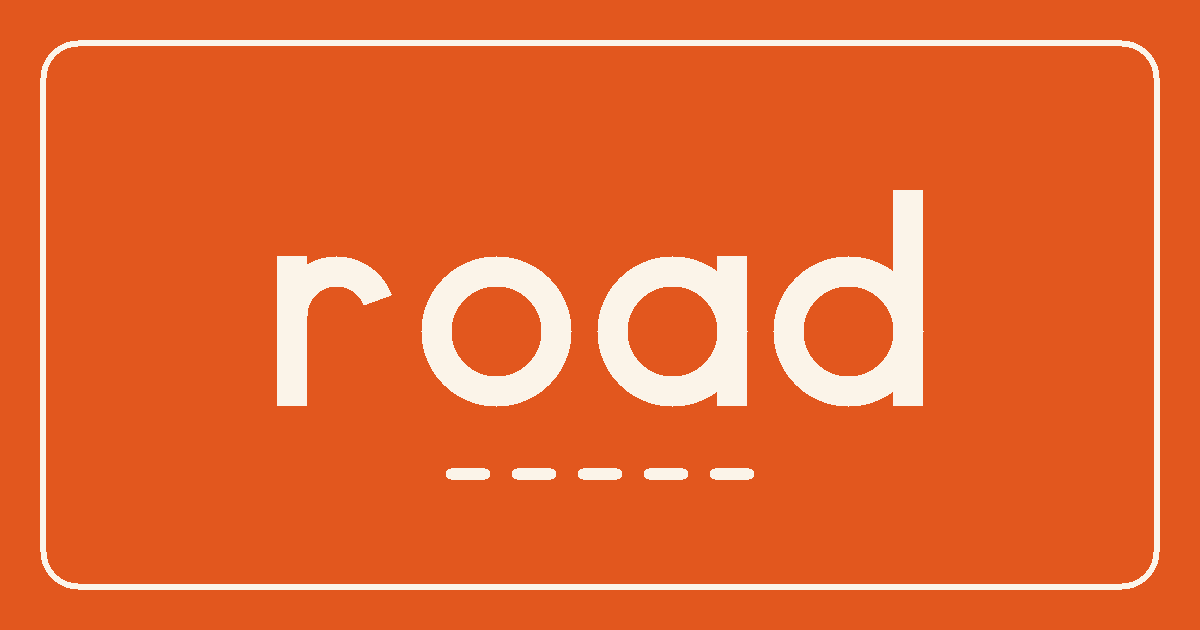
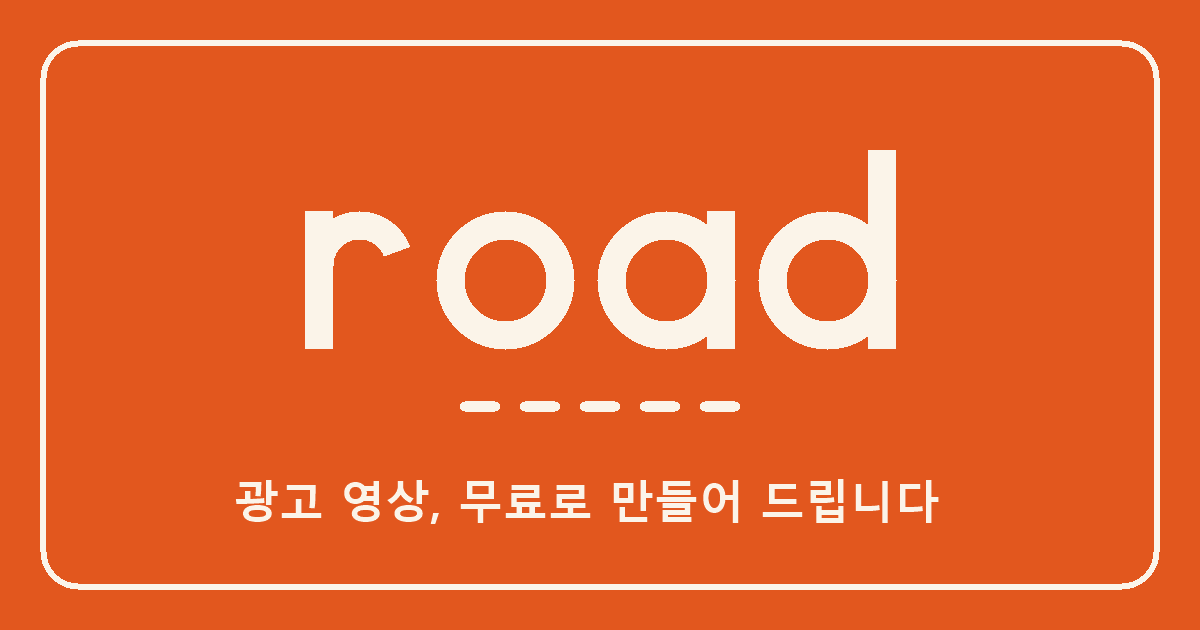
문구를 '영상에 쓴 것'과 '게시글에 쓸 것'으로 나누고, 미리보기 그림에 한 줄 넣음
[문구를 둘로 나눔]
완성 영상을 드리므로 문구 하나는 이미 영상에 쓰인 상태임.
그런데 "3안 중에 고르세요"라고 하면 사장님이 뭘 해야 하는지 헷갈림.
- videoCopy : 영상에 이미 들어간 한 줄 (보고용)
- postCopy  : 올릴 때 밑에 붙일 글 3안 (골라 쓰는 것, 줄마다 복사 단추)
- 클로드 지시문도 headlines -> videoCopy + postCopy 로 바꿈
- 카톡에 보낼 글에도 [영상에 쓴 문구] / [게시글에 쓸 문구] 로 나뉘어 들어감

[결과 코드가 안 열리던 문제를 고침]
빈 항목을 채우는 부분이 결과를 '새로 만들 때'에만 있고
'예전 코드를 열 때'에는 없었음. 그대로 뒀으면 이미 사장님들께 보낸
결과 코드를 여는 순간 화면이 멈췄음.
- fillResult() 로 떼어내 parseResult 와 unpack 양쪽에서 부르게 함
- _화면시늉.js 가 이 문제를 잡아냄. 옛 결과/새 결과 둘 다 여는 검사를 남겨 둠

[카톡 미리보기 그림]
"광고 영상, 무료로 만들어 드립니다" 한 줄을 그림 안에 넣음.
한글은 막대로 그릴 수 없어 윈도우 글꼴을 빌려 씀 (_미리보기그림.ps1 새로 만듦).
road 글자를 조금 올려 자리를 비움. 만드는 순서는 node -> powershell.

[어두운 화면]
지금처럼 자동으로 바뀌게 그대로 둠 (사용자 확인)

검사: 글자 52개 · 화면 실행 46개 전부 통과

Changed region(s): [[0.2158, 0.2413, 0.7708, 0.6635], [0.185, 0.7238, 0.8017, 0.8444]]

diff --git a/index.html b/index.html
@@ -453,6 +453,8 @@ ko:{
   photoTip:"가게 사진 3~4장을 같이 보내주시면 훨씬 좋습니다",
   photoNote:"안 보내셔도 영상은 나옵니다. 다만 사진이 있으면 '어느 가게나 비슷한 영상'이 아니라 사장님 가게다운 영상이 됩니다. 간판, 대표 메뉴, 가게 안 풍경이면 충분합니다.",
   noTags:"해시태그가 없습니다.", tagsAll:"해시태그 모아 복사",
+  videoCopy:"영상에 쓴 문구", videoCopyNote:"이 문구는 이미 영상 안에 들어가 있습니다",
+  postCopy:"게시글에 쓸 문구", postCopyNote:"영상을 올릴 때 밑에 붙이는 글입니다. 마음에 드는 걸 하나 골라 쓰세요",
   navHow:"진행 순서", navGet:"받는 것", navWhy:"왜 무료인가", navFaq:"자주 묻는 질문",
   navCta:"무료로 신청",
   heroBadge:"지금은 모든 신청이 무료입니다",
@@ -708,6 +710,8 @@ en:{
   photoTip:"Sending 3-4 photos of your shop makes it much better",
   photoNote:"The video still gets made without them. But with photos it looks like your shop rather than any shop. The sign, your signature item and the inside is plenty.",
   noTags:"No hashtags.", tagsAll:"Copy all hashtags",
+  videoCopy:"Copy used in the video", videoCopyNote:"This line is already in the video",
+  postCopy:"Copy to post with it", postCopyNote:"The text that goes under the video when you upload. Pick whichever you like",
   navHow:"How it works", navGet:"What you get", navWhy:"Why free", navFaq:"FAQ",
   navCta:"Start free",
   heroBadge:"Every request is free right now",
@@ -1340,7 +1344,8 @@ req.brief,
 "",
 "{",
 '  "brandLine": "one line that defines this shop",',
-'  "headlines": ["headline 1","headline 2","headline 3"],',
+'  "videoCopy": "the one line that appears large inside the video",',
+'  "postCopy": ["caption to post 1","caption to post 2","caption to post 3"],',
 '  "storyboard": [',
 '    {"time":"0-3 sec","visual":"what is on screen","caption":"on-screen caption","voice":"spoken line (empty string if none)"}',
 "  ],",
@@ -1351,6 +1356,9 @@ req.brief,
 "Rules:",
 "- storyboard must be exactly " + cuts + " cuts, totalling " + req.sec + " seconds.",
 "- caption must be under 30 characters, readable at a glance.",
+"- videoCopy is the hook shown inside the video. Keep it under 20 characters.",
+"- postCopy: exactly 3 versions of the text that goes under the post —",
+"  one punchy, one warm, one straight to the facts. 2 to 4 lines each.",
 "- Never write camera directions, prop lists or editing steps. We handle production.",
 "- hashtags: at most 6.",
 "- Never use superlatives (best, number one, only, cheapest).",
@@ -1376,7 +1384,8 @@ req.brief,
 "",
 "{",
 '  "brandLine": "이 가게를 한 줄로 정의",',
-'  "headlines": ["광고문구1","광고문구2","광고문구3"],',
+'  "videoCopy": "영상 안에 크게 뜨는 대표 문구 한 줄",',
+'  "postCopy": ["게시글에 붙일 글1","게시글에 붙일 글2","게시글에 붙일 글3"],',
 '  "storyboard": [',
 '    {"time":"0-3초","visual":"화면에 보이는 것","caption":"화면에 뜨는 자막","voice":"말소리 대사 (없으면 빈 문자열)"}',
 "  ],",
@@ -1387,6 +1396,9 @@ req.brief,
 "규칙:",
 "- storyboard는 정확히 " + cuts + "컷, 시간 합계 " + req.sec + "초.",
 "- caption은 16자 이내. 화면에서 한눈에 읽히는 말로.",
+"- videoCopy는 영상 안에 크게 뜨는 한 줄. 20자 이내.",
+"- postCopy는 영상을 올릴 때 밑에 붙이는 글 3안 —",
+"  짧게 치는 것 / 마음을 건드리는 것 / 정보를 또박또박 주는 것. 각각 2~4줄.",
 "- 촬영 방법·준비물·편집 순서는 절대 쓰지 마세요. 만드는 것은 우리가 합니다.",
 "- hashtags는 6개 이내.",
 "- 과장 표현(최고, 1등, 유일, 최저가)은 쓰지 마세요.",
@@ -1402,10 +1414,25 @@ function parseResult(text){
   var o;
   try{ o = JSON.parse(s.slice(a, b+1)); }catch(e){ return null; }
   if(!o || !o.storyboard || !o.storyboard.length) return null;
+  return fillResult(o);
+}
+
+/* 빠진 항목을 빈 값으로 채웁니다.
+   **새로 만들 때와 예전 결과를 열 때 양쪽에서 반드시 불러야 합니다.**
+   한쪽만 부르면, 예전에 보낸 결과 코드를 여는 순간 화면이 그대로 멈춥니다. */
+function fillResult(o){
+  if(!o) return o;
   o.brandLine = o.brandLine || ""; o.headlines = o.headlines || [];
+  /* 문구를 '영상에 쓴 것' 과 '게시글에 쓸 것' 으로 나눴습니다.
+     예전에 보낸 결과에는 headlines 밖에 없으므로, 그걸 게시글 문구로 삼고
+     첫 번째를 영상 문구로 씁니다. 그래야 옛 결과 코드도 그대로 열립니다. */
+  o.videoCopy = o.videoCopy || ""; o.postCopy = o.postCopy || [];
+  if(!o.postCopy.length) o.postCopy = o.headlines;
+  if(!o.videoCopy && o.headlines.length) o.videoCopy = o.headlines[0];
   o.props = o.props || []; o.shootTips = o.shootTips || [];
   o.hashtags = o.hashtags || []; o.cta = o.cta || "";
   o.edit = o.edit || {}; o.edit.capcut = o.edit.capcut || []; o.edit.vllo = o.edit.vllo || [];
+  o.storyboard = o.storyboard || [];
   o.storyboard.forEach(function(c){
     c.time = c.time || ""; c.visual = c.visual || "";
     c.shot = c.shot || ""; c.caption = c.caption || ""; c.voice = c.voice || "";
@@ -1632,11 +1659,13 @@ function unpack(text, pin){
     if(!hasCrypto()) return Promise.resolve({ bad:"code" });
     if(!pin) return Promise.resolve({ need:"pin" });
     return unlockBytes(bytes, pin).then(function(o){
-      return (o && o.storyboard) ? { ok:o } : { bad:"pin" };
+      /* fillResult 를 꼭 거쳐야 합니다. 예전에 보낸 결과에는 새로 생긴 항목이
+         없어서, 그냥 넘기면 결과 화면이 그대로 멈춥니다. */
+      return (o && o.storyboard) ? { ok:fillResult(o) } : { bad:"pin" };
     });
   }
   return unsqueeze(kind, bytes).then(function(o){
-    return (o && o.storyboard) ? { ok:o } : { bad:"code" };
+    return (o && o.storyboard) ? { ok:fillResult(o) } : { bad:"code" };
   });
 }
 
@@ -1723,11 +1752,13 @@ function resultToText(r){
   var en = S.lang === "en";
   var W = en ? {
     brand:"[IN ONE LINE] ", head:"[HEADLINES]", script:"[SCRIPT]",
+    vcopy:"[COPY IN THE VIDEO] ", pcopy:"[COPY TO POST WITH IT]",
     scene:"   Scene: ", shot:"   Shot: ", capt:"   Caption: ", voice:"   Voice: ",
     caps:"[CAPTIONS ONLY]", props:"[PROPS]", tips:"[SHOOTING TIPS]",
     capcut:"[CAPCUT STEPS]", vllo:"[VLLO STEPS]", tags:"[HASHTAGS] ", cta:"[CLOSING LINE] "
   } : {
     brand:"[한 줄 정의] ", head:"[광고 문구]", script:"[대본]",
+    vcopy:"[영상에 쓴 문구] ", pcopy:"[게시글에 쓸 문구]",
     scene:"   화면: ", shot:"   촬영: ", capt:"   자막: ", voice:"   대사: ",
     caps:"[자막만]", props:"[준비물]", tips:"[촬영 요령]",
     capcut:"[캡컷 편집 순서]", vllo:"[블로 편집 순서]", tags:"[해시태그] ", cta:"[마지막 한 줄] "
@@ -1736,7 +1767,12 @@ function resultToText(r){
   /* 영상은 파일로 따로 보내드리므로, 이 글에는 같이 올릴 것만 담습니다.
      촬영 방법·준비물·편집 순서는 사장님이 할 일이 아니라서 넣지 않습니다. */
   L.push(W.brand + r.brandLine, "");
-  L.push(W.head); r.headlines.forEach(function(x,i){ L.push((i+1) + ". " + x); }); L.push("");
+  if(r.videoCopy) L.push(W.vcopy + r.videoCopy, "");
+  if(r.postCopy.length){
+    L.push(W.pcopy);
+    r.postCopy.forEach(function(x,i){ L.push((i+1) + ". " + x); });
+    L.push("");
+  }
   var caps = r.storyboard.map(function(c){ return c.caption; }).filter(Boolean);
   if(caps.length){ L.push(W.caps); caps.forEach(function(x){ L.push(x); }); L.push(""); }
   if(r.hashtags.length) L.push(W.tags + r.hashtags.join(" "));
@@ -2881,13 +2917,29 @@ SCREENS.done = function(app){
 };
 
 function paneP(box, r){
-  box.appendChild(eyebrow(t("headlines")));
-  box.appendChild(h("div",{cls:"card",style:"margin-top:10px"}, r.headlines.map(function(x,i){
-    return h("div",{style:"padding:10px 0;" + (i ? "border-top:1px dashed var(--edge)" : "")},[
-      h("span",{cls:"num",text:"0" + (i+1)}),
-      h("div",{cls:"disp",style:"font-size:21px;margin-top:4px",text:x})
-    ]);
-  })));
+  /* ① 영상에 이미 들어간 문구. 사장님이 따로 하실 일은 없고 '이렇게 나왔습니다' 보고입니다. */
+  if(r.videoCopy){
+    box.appendChild(eyebrow(t("videoCopy")));
+    box.appendChild(h("div",{cls:"card",style:"margin-top:10px"},[
+      h("div",{cls:"disp",style:"font-size:25px;line-height:1.2",text:r.videoCopy}),
+      h("p",{cls:"note",style:"margin-top:8px",text:t("videoCopyNote")})
+    ]));
+  }
+  /* ② 올릴 때 밑에 붙이는 글. 이건 사장님이 실제로 복사해서 쓰십니다.
+     그래서 줄마다 복사 단추를 따로 붙였습니다. */
+  if(r.postCopy.length){
+    box.appendChild(h("div",{style:"margin-top:26px"},[ eyebrow(t("postCopy")) ]));
+    box.appendChild(h("p",{cls:"note",style:"margin-top:4px",text:t("postCopyNote")}));
+    box.appendChild(h("div",{cls:"card",style:"margin-top:10px"}, r.postCopy.map(function(x,i){
+      var cb = h("button",{cls:"tiny",text:t("copy"),
+        on:{click:function(){ if(copyText(x)) flash(cb, t("copied"), t("copy")); }}});
+      return h("div",{style:"padding:12px 0;" + (i ? "border-top:1px dashed var(--edge)" : "")},[
+        h("span",{cls:"num",text:"0" + (i+1)}),
+        h("div",{style:"font-size:16px;margin-top:4px;white-space:pre-wrap",text:x}),
+        cb
+      ]);
+    })));
+  }
   if(r.cta){
     box.appendChild(h("div",{style:"margin-top:26px"},[ eyebrow(t("cta")) ]));
     box.appendChild(h("div",{cls:"disp",style:"font-size:23px;margin-top:8px;color:var(--accent-ink)",text:r.cta}));

diff --git a/_화면시늉.js b/_화면시늉.js
@@ -139,7 +139,8 @@ const 남음 = 옛말.filter(x => 본문.includes(x));
 console.log("\n[ 결과 화면 ]");
 상자.S.lang = "ko";
 // 클로드가 내주는 답과 같은 모양의 가짜 결과를 하나 만들어 넣습니다
-상자.S.result = {
+// 일부러 '예전 모양'으로 둡니다 — videoCopy·postCopy 가 없는 옛 결과입니다
+상자.S.result = 상자.fillResult({
   brandLine: "12년 된 손칼국수집",
   headlines: ["새벽에 낸 육수", "점심 한 그릇", "12년째 같은 자리"],
   storyboard: [
@@ -150,7 +151,7 @@ console.log("\n[ 결과 화면 ]");
   edit: { capcut:["자르기"], vllo:[] },
   hashtags: ["#일산맛집", "#손칼국수"],
   cta: "점심에 들러주세요"
-};
+});
 상자.S.req = null;
 
 [["plan","광고 문구"],["caption","자막"],["tags","해시태그"]].forEach(function(칸){
@@ -164,12 +165,33 @@ console.log("\n[ 결과 화면 ]");
 
 상자.S.tab = "plan"; 상자.go("done");
 var 결과글 = 이름표.app.textContent;
-확인("광고 문구 3안 나옴", 결과글.includes("새벽에 낸 육수") && 결과글.includes("12년째 같은 자리"));
+확인("옛 결과도 열림", 결과글.includes("새벽에 낸 육수") && 결과글.includes("12년째 같은 자리"));
+확인("영상 문구 · 게시글 문구 나뉨",
+  결과글.includes("영상에 쓴 문구") && 결과글.includes("게시글에 쓸 문구"));
+
+// 새로 만든 결과는 두 가지가 따로 들어옵니다
+var 새결과 = 상자.fillResult({
+  brandLine:"칼국수집", headlines:[],
+  videoCopy:"매일 새벽 4시",
+  postCopy:["짧게 치는 글","마음을 건드리는 글","정보를 주는 글"],
+  storyboard:[{ time:"0-3초", visual:"솥", caption:"새벽 4시", voice:"" }],
+  hashtags:["#일산맛집"], cta:"들러주세요"
+});
+상자.S.result = 새결과; 상자.S.tab = "plan"; 상자.go("done");
+var 새글 = 이름표.app.textContent;
+확인("새 결과 · 영상 문구", 새글.includes("매일 새벽 4시"));
+확인("새 결과 · 게시글 문구 3안",
+  새글.includes("짧게 치는 글") && 새글.includes("마음을 건드리는 글") && 새글.includes("정보를 주는 글"));
+var 새보낼글 = 상자.resultToText(새결과);
+확인("보낼 글에도 나뉘어 들어감",
+  새보낼글.includes("[영상에 쓴 문구]") && 새보낼글.includes("[게시글에 쓸 문구]"));
 확인("촬영·편집 칸 없어짐", !결과글.includes("촬영 목록") && !결과글.includes("편집") && !결과글.includes("준비물"));
 
 // 카톡에 그대로 보내는 글에도 촬영·편집이 빠졌는지
 var 보낼글 = 상자.resultToText(상자.S.result);
-확인("보낼 글에 문구·자막·해시태그", 보낼글.includes("광고 문구") && 보낼글.includes("자막만") && 보낼글.includes("해시태그"));
+확인("보낼 글에 문구·자막·해시태그",
+  보낼글.includes("[영상에 쓴 문구]") && 보낼글.includes("[게시글에 쓸 문구]") &&
+  보낼글.includes("[자막만]") && 보낼글.includes("[해시태그]"));
 확인("보낼 글에 촬영·편집 없음",
   !보낼글.includes("촬영") && !보낼글.includes("준비물") && !보낼글.includes("캡컷") && !보낼글.includes("대본"),
   보낼글.match(/촬영|준비물|캡컷|대본/g) ? "남음 " + 보낼글.match(/촬영|준비물|캡컷|대본/g).join(",") : "");

diff --git a/_미리보기그림.js b/_미리보기그림.js
@@ -111,14 +111,15 @@ function road폭(h){
 둥근테두리(40, 40, W - 80, H - 80, 38, 6, 크림, 주황);   // 포스터 같은 크림색 테두리
 
 // 가운데 큰 'road'
-const 소문자 = 150;
+// 밑에 한 줄 글이 들어가므로(_미리보기그림.ps1) 조금 위로 올려 자리를 비워 둡니다
+const 소문자 = 138;
 const 낱말폭 = road폭(소문자);
-const 결과 = road(Math.round((W - 낱말폭) / 2), 190, 소문자, 크림);
+const 결과 = road(Math.round((W - 낱말폭) / 2), 150, 소문자, 크림);
 
 // 글자 밑에 도로 차선 다섯 칸 — 사이트 왼쪽의 줄무늬와 같은 표시입니다
-const 칸 = 5, 칸폭 = 46, 사이칸 = 20;
+const 칸 = 5, 칸폭 = 42, 사이칸 = 18;
 const 시작 = Math.round((W - (칸 * 칸폭 + (칸 - 1) * 사이칸)) / 2);
-for(let i = 0; i < 칸; i++) 둥근네모(시작 + i * (칸폭 + 사이칸), 결과.밑줄 + 62, 칸폭, 12, 6, 크림);
+for(let i = 0; i < 칸; i++) 둥근네모(시작 + i * (칸폭 + 사이칸), 결과.밑줄 + 52, 칸폭, 11, 6, 크림);
 
 /* ---------------------------------------------------------
    PNG 파일로 저장하기

diff --git a/CLAUDE.md b/CLAUDE.md
@@ -55,15 +55,21 @@
 
 | 남긴 것 | 뺀 것 |
 |---|---|
-| 광고 문구 3안 + 마무리 한 줄 | 대본 (컷별 화면) |
-| 자막 (영상에 들어간 순서대로) | 촬영 목록 · 촬영 요령 |
-| 해시태그 | 준비물 |
-| | 캡컷 · 블로 편집 순서 |
+| **영상에 쓴 문구** (`videoCopy`) — 이미 영상 안에 들어간 한 줄 | 대본 (컷별 화면) |
+| **게시글에 쓸 문구** (`postCopy`) — 올릴 때 밑에 붙일 글 3안 | 촬영 목록 · 촬영 요령 |
+| 자막 (영상에 들어간 순서대로) | 준비물 |
+| 해시태그 | 캡컷 · 블로 편집 순서 |
+
+문구를 둘로 나눈 이유: 완성 영상을 드리므로 **문구 하나는 이미 영상에 쓰였습니다.**
+"3안 중에 고르세요"라고 하면 사장님이 뭘 해야 하는지 헷갈립니다.
+영상에 쓴 것은 **보고**, 게시글용은 **골라 쓰는 것** 으로 나눠 놨습니다.
 
 - 결과 화면 탭이 5개 → **3개** (`plan` 광고 문구 / `caption` 자막 / `tags` 해시태그)로 줄었습니다.
 - 클로드 지시문도 `props` · `shootTips` · `edit` · `shot` 을 **더 이상 만들지 않게** 바꿨습니다.
-- `parseResult` 는 그 항목들을 여전히 빈 값으로 채웁니다 —
-  **예전에 보낸 결과 코드도 그대로 열리게 하려고 일부러 남겨 둔 것입니다. 지우지 마세요.**
+> ⚠ **`fillResult()` 는 두 곳에서 반드시 불러야 합니다** — 결과를 새로 만들 때(`parseResult`)와
+> **예전 결과 코드를 열 때(`unpack`)**. 한쪽만 부르면, 이미 사장님께 보낸 결과 코드를 여는 순간
+> 화면이 그대로 멈춥니다. 실제로 이 실수가 한 번 났고 `_화면시늉.js` 가 잡아냈습니다.
+> 옛 항목(`props`·`shootTips`·`edit`)의 기본값도 같은 이유로 남겨 둔 것이니 지우지 마세요.
 
 ### 가게 사진 안내
 
@@ -87,7 +93,19 @@ git push               # 1~2분 뒤 사이트에 반영됩니다
 검사 두 개는 보는 것이 다릅니다. `_검사.js` 는 "빠진 게 없나"를 글자로 훑고,
 `_화면시늉.js` 는 코드를 진짜로 돌려서 "화면이 뜨긴 하나"를 봅니다. **둘 다 돌리세요.**
 
-카톡 미리보기 그림을 바꾸고 싶으면 `node _미리보기그림.js` → `og.png` 가 새로 만들어집니다.
+### 카톡 미리보기 그림(`og.png`) 을 바꾸려면 — 두 번, 순서대로
+
+```
+node _미리보기그림.js               # ① 바탕 · road 글자 · 차선
+powershell -File _미리보기그림.ps1   # ② 그 위에 한 줄 글
+```
+
+**왜 둘로 나눠져 있나**: 한글은 곧은 막대로 그릴 수 없어 진짜 글꼴이 필요한데,
+Node 에는 글꼴이 없고 윈도우에는 있습니다. 그래서 그림은 Node 가, 글자는 윈도우가 그립니다.
+**①만 돌리면 글이 사라집니다. 반드시 ②까지 돌리세요.**
+
+`.ps1` 파일은 **BOM 붙은 UTF-8** 이어야 합니다. 그 표시가 없으면 윈도우 파워셸이
+한글을 깨뜨려 읽어서 실행이 멈춥니다.
 
 > ⚠ **파일 이름을 `index.html` 에서 바꾸면 사이트가 죽습니다.** 깃허브 페이지가 이 이름을 찾습니다.
 

diff --git a/README.md b/README.md
@@ -40,7 +40,8 @@
 | `og.png` | 카톡·검색에 주소를 붙였을 때 뜨는 미리보기 그림 |
 | `_검사.js` | 자체 점검. `node _검사.js` 로 52가지를 확인합니다 |
 | `_화면시늉.js` | 가짜 브라우저로 화면을 진짜 그려봅니다. 깨지면 여기서 잡힙니다 |
-| `_미리보기그림.js` | `og.png` 를 새로 만드는 도구 |
+| `_미리보기그림.js` | `og.png` 의 바탕(주황 · road 글자 · 차선)을 그리는 도구 |
+| `_미리보기그림.ps1` | 그 위에 한 줄 글을 얹는 도구 (한글 글꼴이 필요해서 윈도우 쪽에서 그립니다) |
 | `카카오채널-세팅.html` | 카카오 채널에 넣을 문구를 복사 단추로 정리한 화면 |
 | `카카오채널-문구.md` | 위 화면의 문구 원본 |
 | `CLAUDE.md` | 클로드 코드가 읽는 안내. 다른 컴퓨터에서도 맥락이 이어집니다 |
